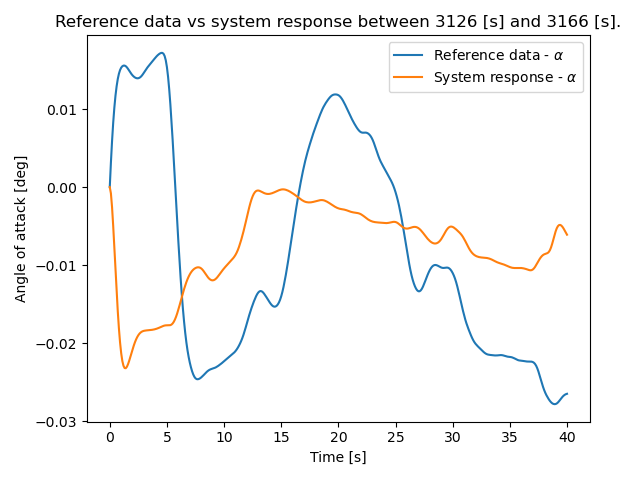
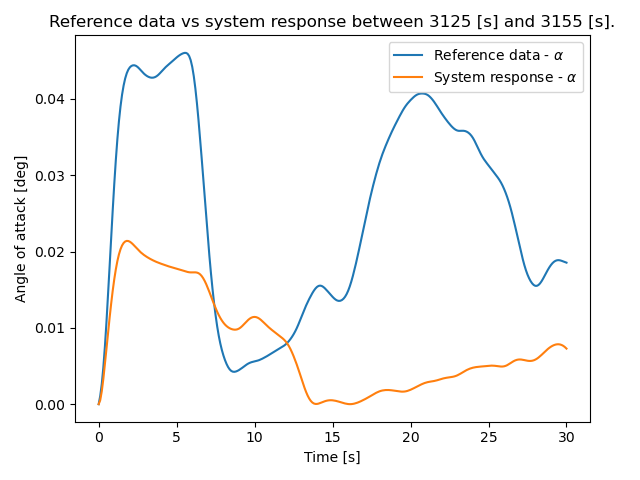
Added fixes for symmetric, now working with flight data.

diff --git a/Symmetric_SS/main_symmetric.py b/Symmetric_SS/main_symmetric.py
@@ -56,12 +56,12 @@ def num_model_sym_data(output=1, t_lookup=3717, t_limit=14, block_fuel=2700, pas
     initial_cond = np.array([[u_hat_0], [alpha_0], [theta_0], [qc_v_0]])
 
     # Obtain impulse response
-    input_delta_e = flight_data[index:index + n_points, 16] * m.pi / 180
+    input_delta_e = -flight_data[index:index + n_points, 16] * m.pi / 180
     sys = ss_sym(rho=rho, m=mass_event, theta_0=theta_0, v=tas_event, C_x_q=C_x_q, C_z_q=C_z_q, C_m_alpha=C_m_alpha,
                  C_m_delta_e=C_m_delta_e, C_m_q=C_m_q)
     t2, out, p2 = control.forced_response(sys, T=t1, U=input_delta_e)
 
-    y2 = out[output, :] + initial_cond[output]
+    y2 = out[output, :]
 
     return y1, y2, t1, t2, input_delta_e, t_lookup, t_interval
 
@@ -115,5 +115,10 @@ def make_plot_sym_data(output=1, t_lookup=3717, t_limit=14, block_fuel=2700, pas
 
     return
 
-# make_plot_sym_data(output=3,t_lookup=3126,t_limit=40)
+# t_rn = 3125
+# t_lim = 30
+#
+# make_plot_sym_data(output=1,t_lookup=t_rn,t_limit=t_lim)
+# make_plot_sym_data(output=2,t_lookup=t_rn,t_limit=t_lim)
+# make_plot_sym_data(output=3,t_lookup=t_rn,t_limit=t_lim)
 # make_plot_sym(output=3, t_lookup=3229, t_limit=200, C_x_q=-13.193219977520021, C_z_q=-7.130847541981485, C_m_alpha=-0.21272996346475043, C_m_delta_e=-0.6919484170523861,C_m_q=-11.722501242413275)

diff --git a/Asymmetric_SS/main_asymmetric.py b/Asymmetric_SS/main_asymmetric.py
@@ -130,4 +130,4 @@ def make_plot_asym(output=1, eigenmotion="dutch roll", t_lookup=3717, t_limit=14
     return
 
 # make_plot_asym(output=1, eigenmotion = "spiral", t_lookup=3900, t_limit=120, CY_b=-2.5246936822596595,Cn_r=0, Cn_p=0.0, Cl_r=0.09370939257487754, Cl_p=-0.816106143365501)
-make_plot_asym(output=3, eigenmotion = "spiral", t_lookup=3590, t_limit=120)
+#make_plot_asym(output=3, eigenmotion = "spiral", t_lookup=3590, t_limit=120)
